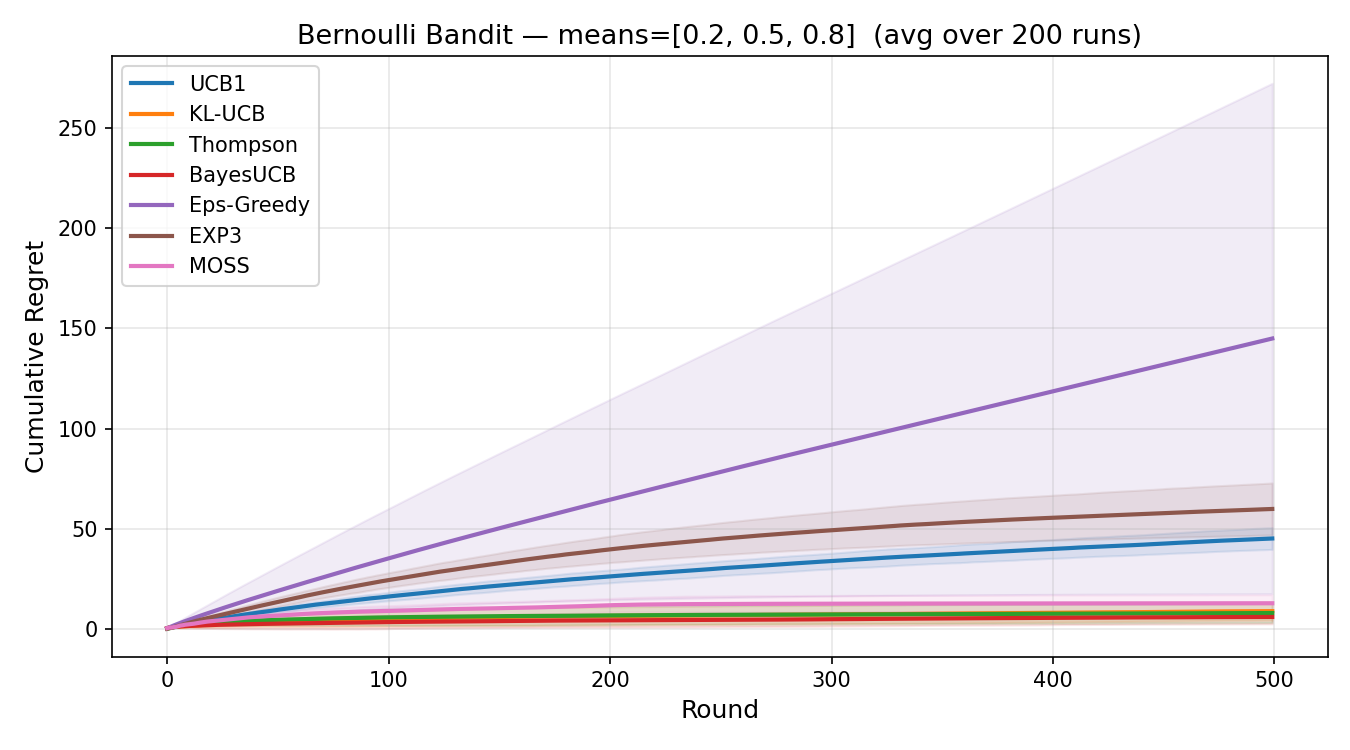
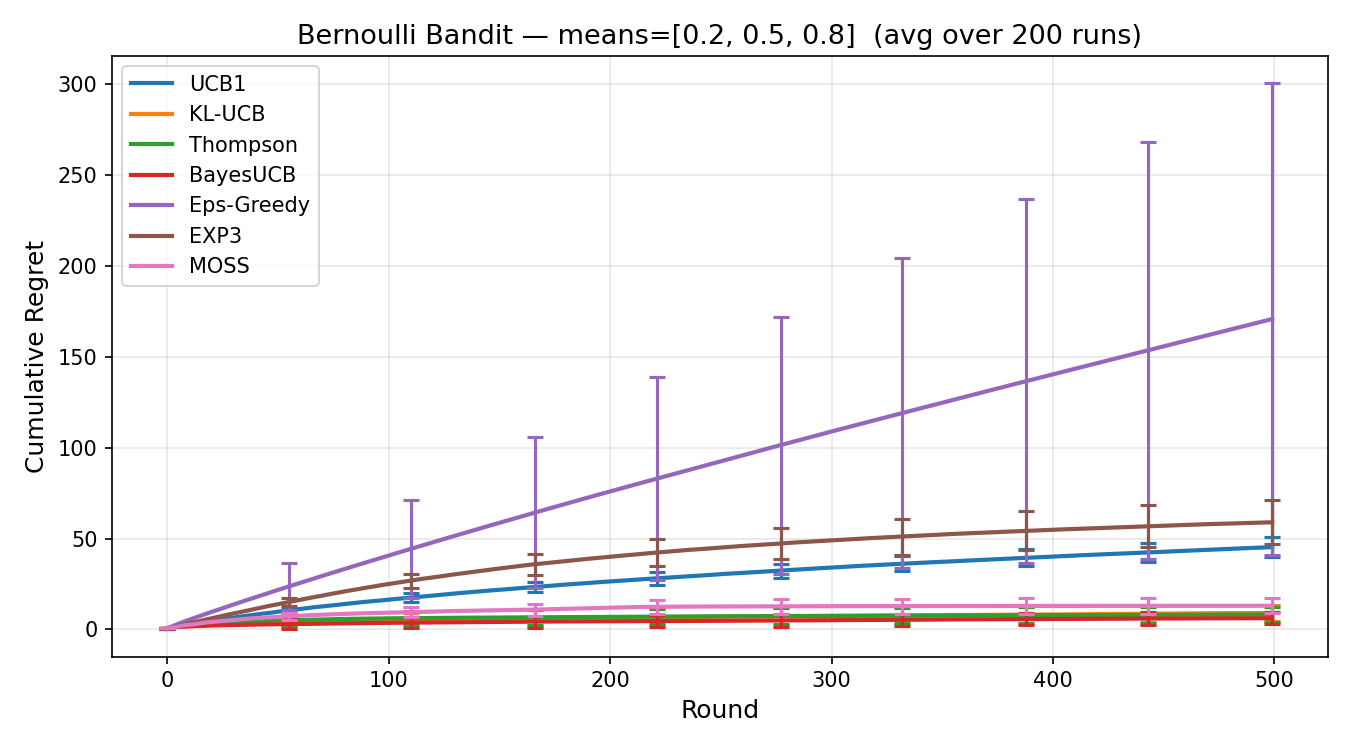
Use error bars instead of fill in regret comparison plot

diff --git a/examples/compare_regret.py b/examples/compare_regret.py
@@ -37,12 +37,18 @@ for name, make_agent in agents.items():
 # Plot
 fig, ax = plt.subplots(figsize=(9, 5))
 
+# Error bars at evenly spaced ticks, not every round (keeps it readable)
+error_ticks = np.linspace(0, T - 1, 10, dtype=int)
+
 colors = plt.cm.tab10.colors
 for i, (name, runs) in enumerate(results.items()):
     mean = runs.mean(axis=0)
     std = runs.std(axis=0)
     ax.plot(mean, label=name, color=colors[i], linewidth=2)
-    ax.fill_between(range(T), mean - std, mean + std, alpha=0.12, color=colors[i])
+    ax.errorbar(
+        error_ticks, mean[error_ticks], yerr=std[error_ticks],
+        fmt="none", color=colors[i], capsize=4, capthick=1.5, elinewidth=1.5,
+    )
 
 ax.set_xlabel("Round", fontsize=12)
 ax.set_ylabel("Cumulative Regret", fontsize=12)
